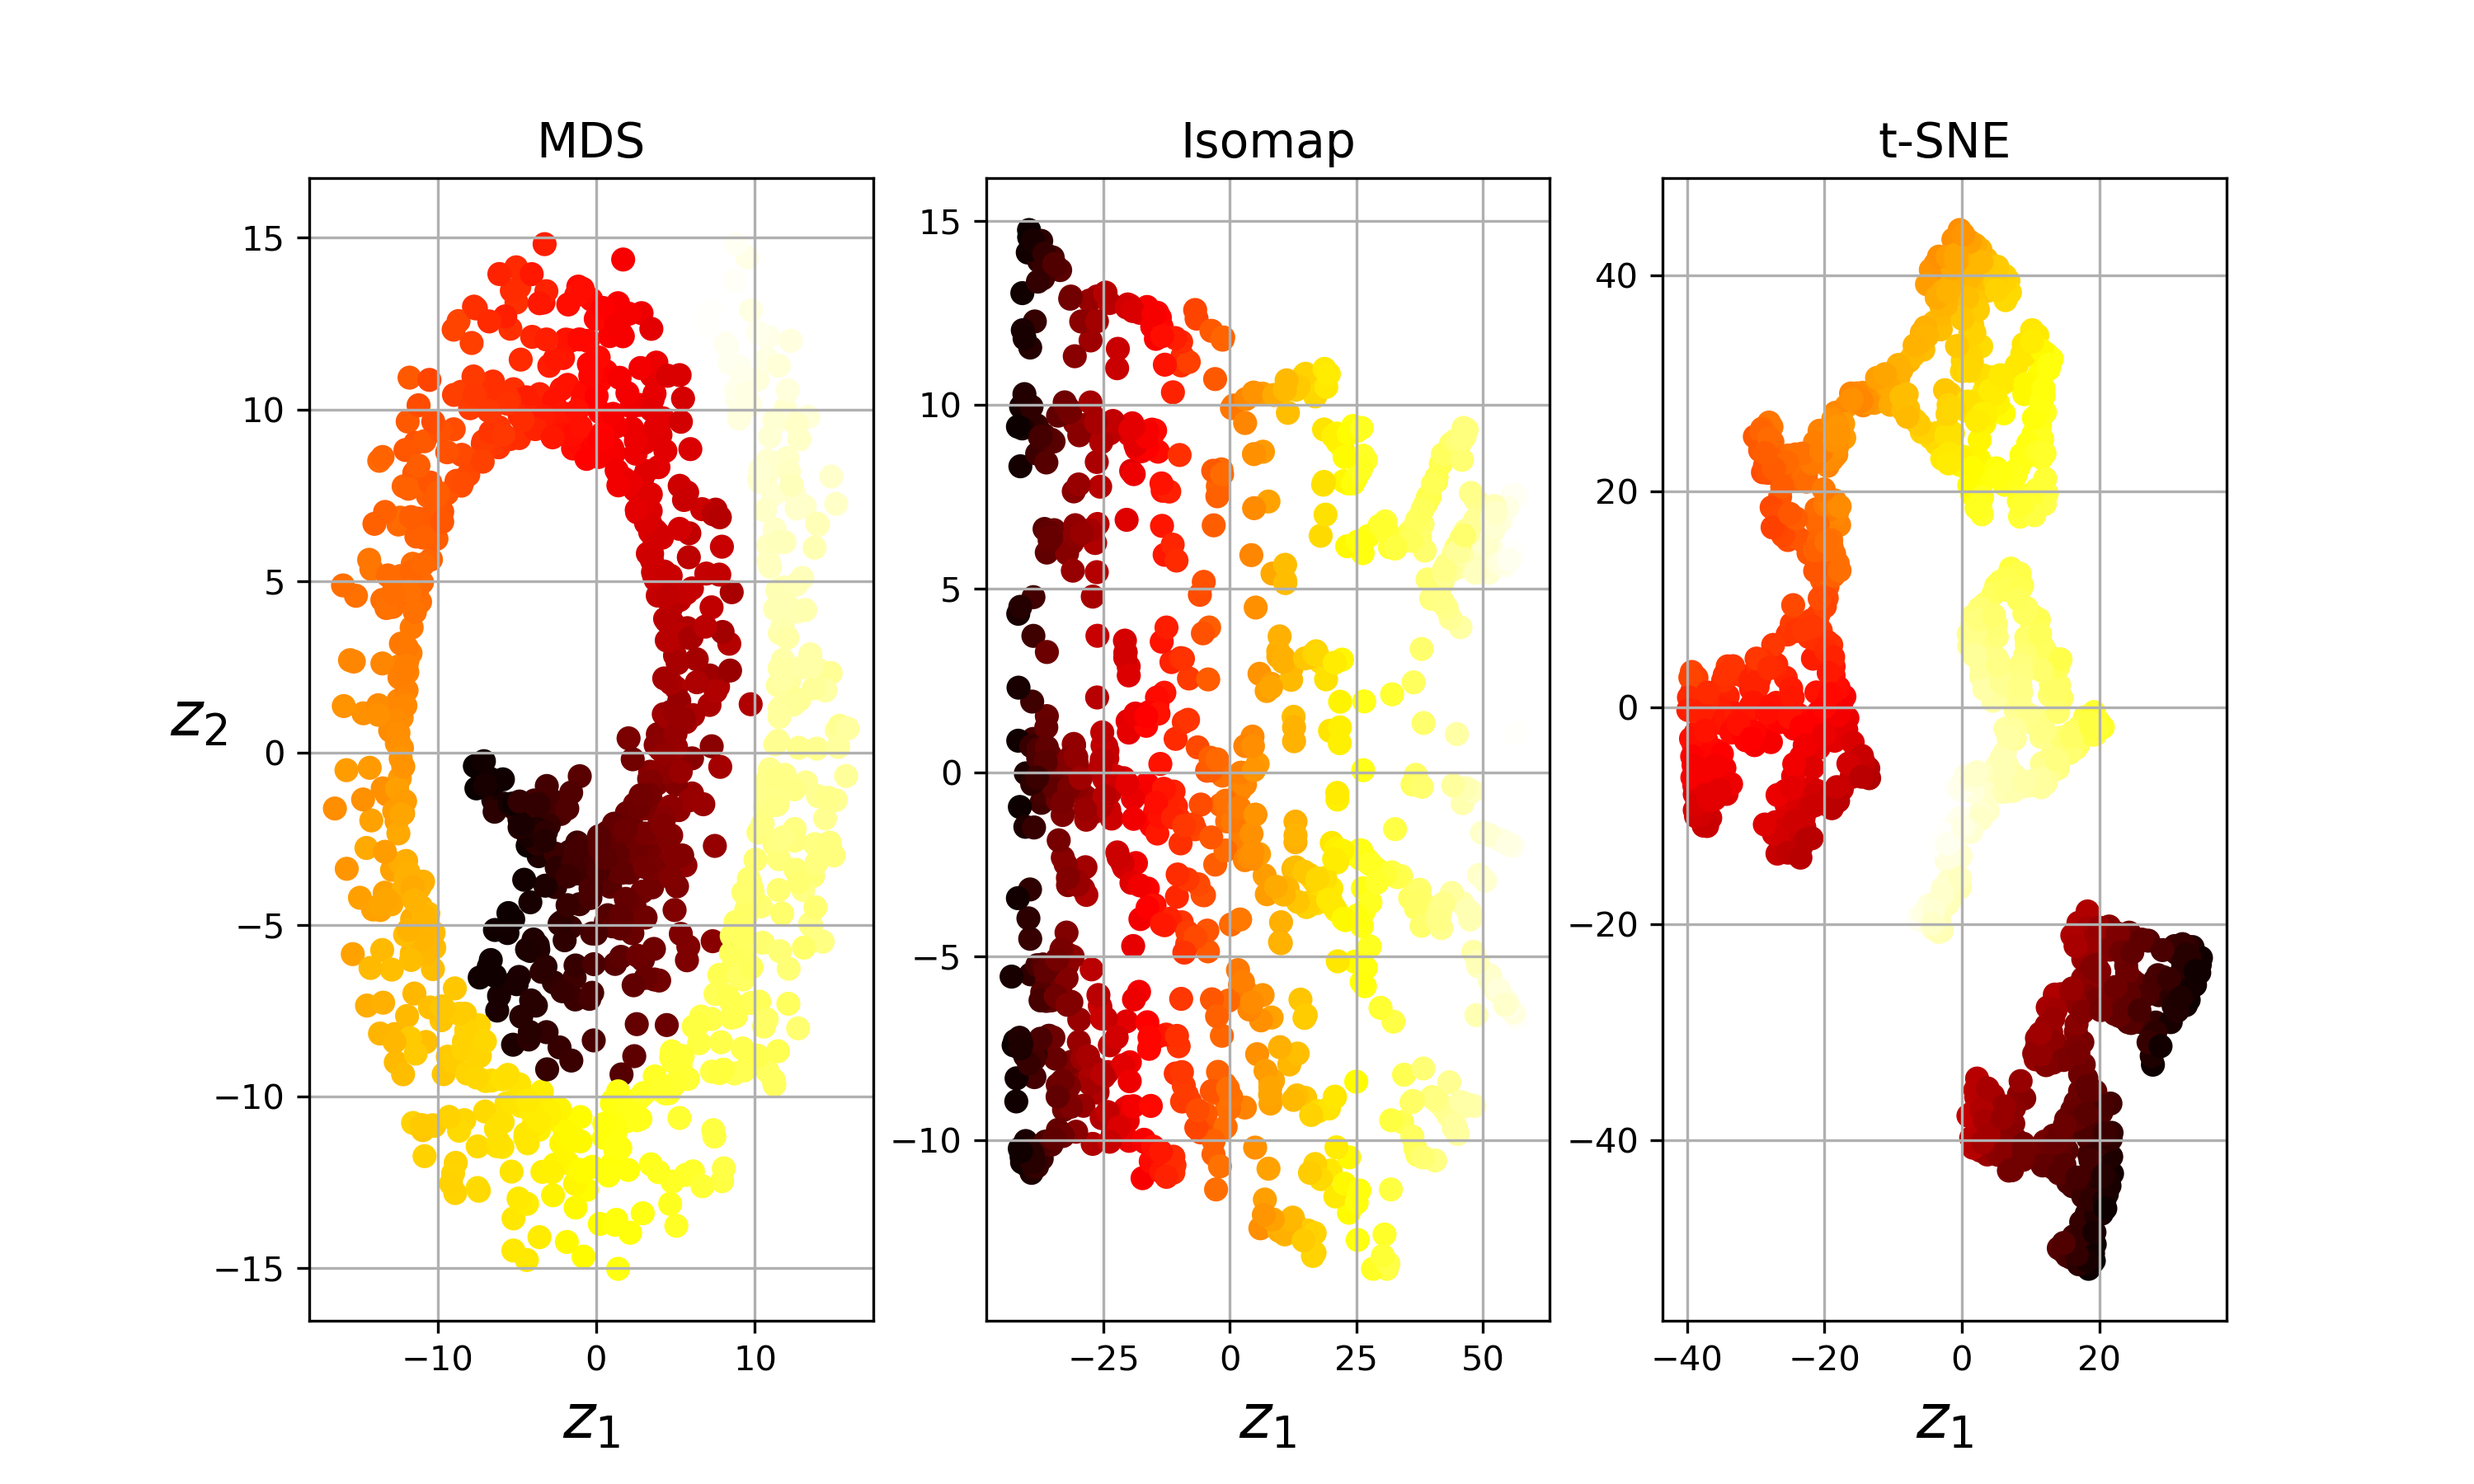
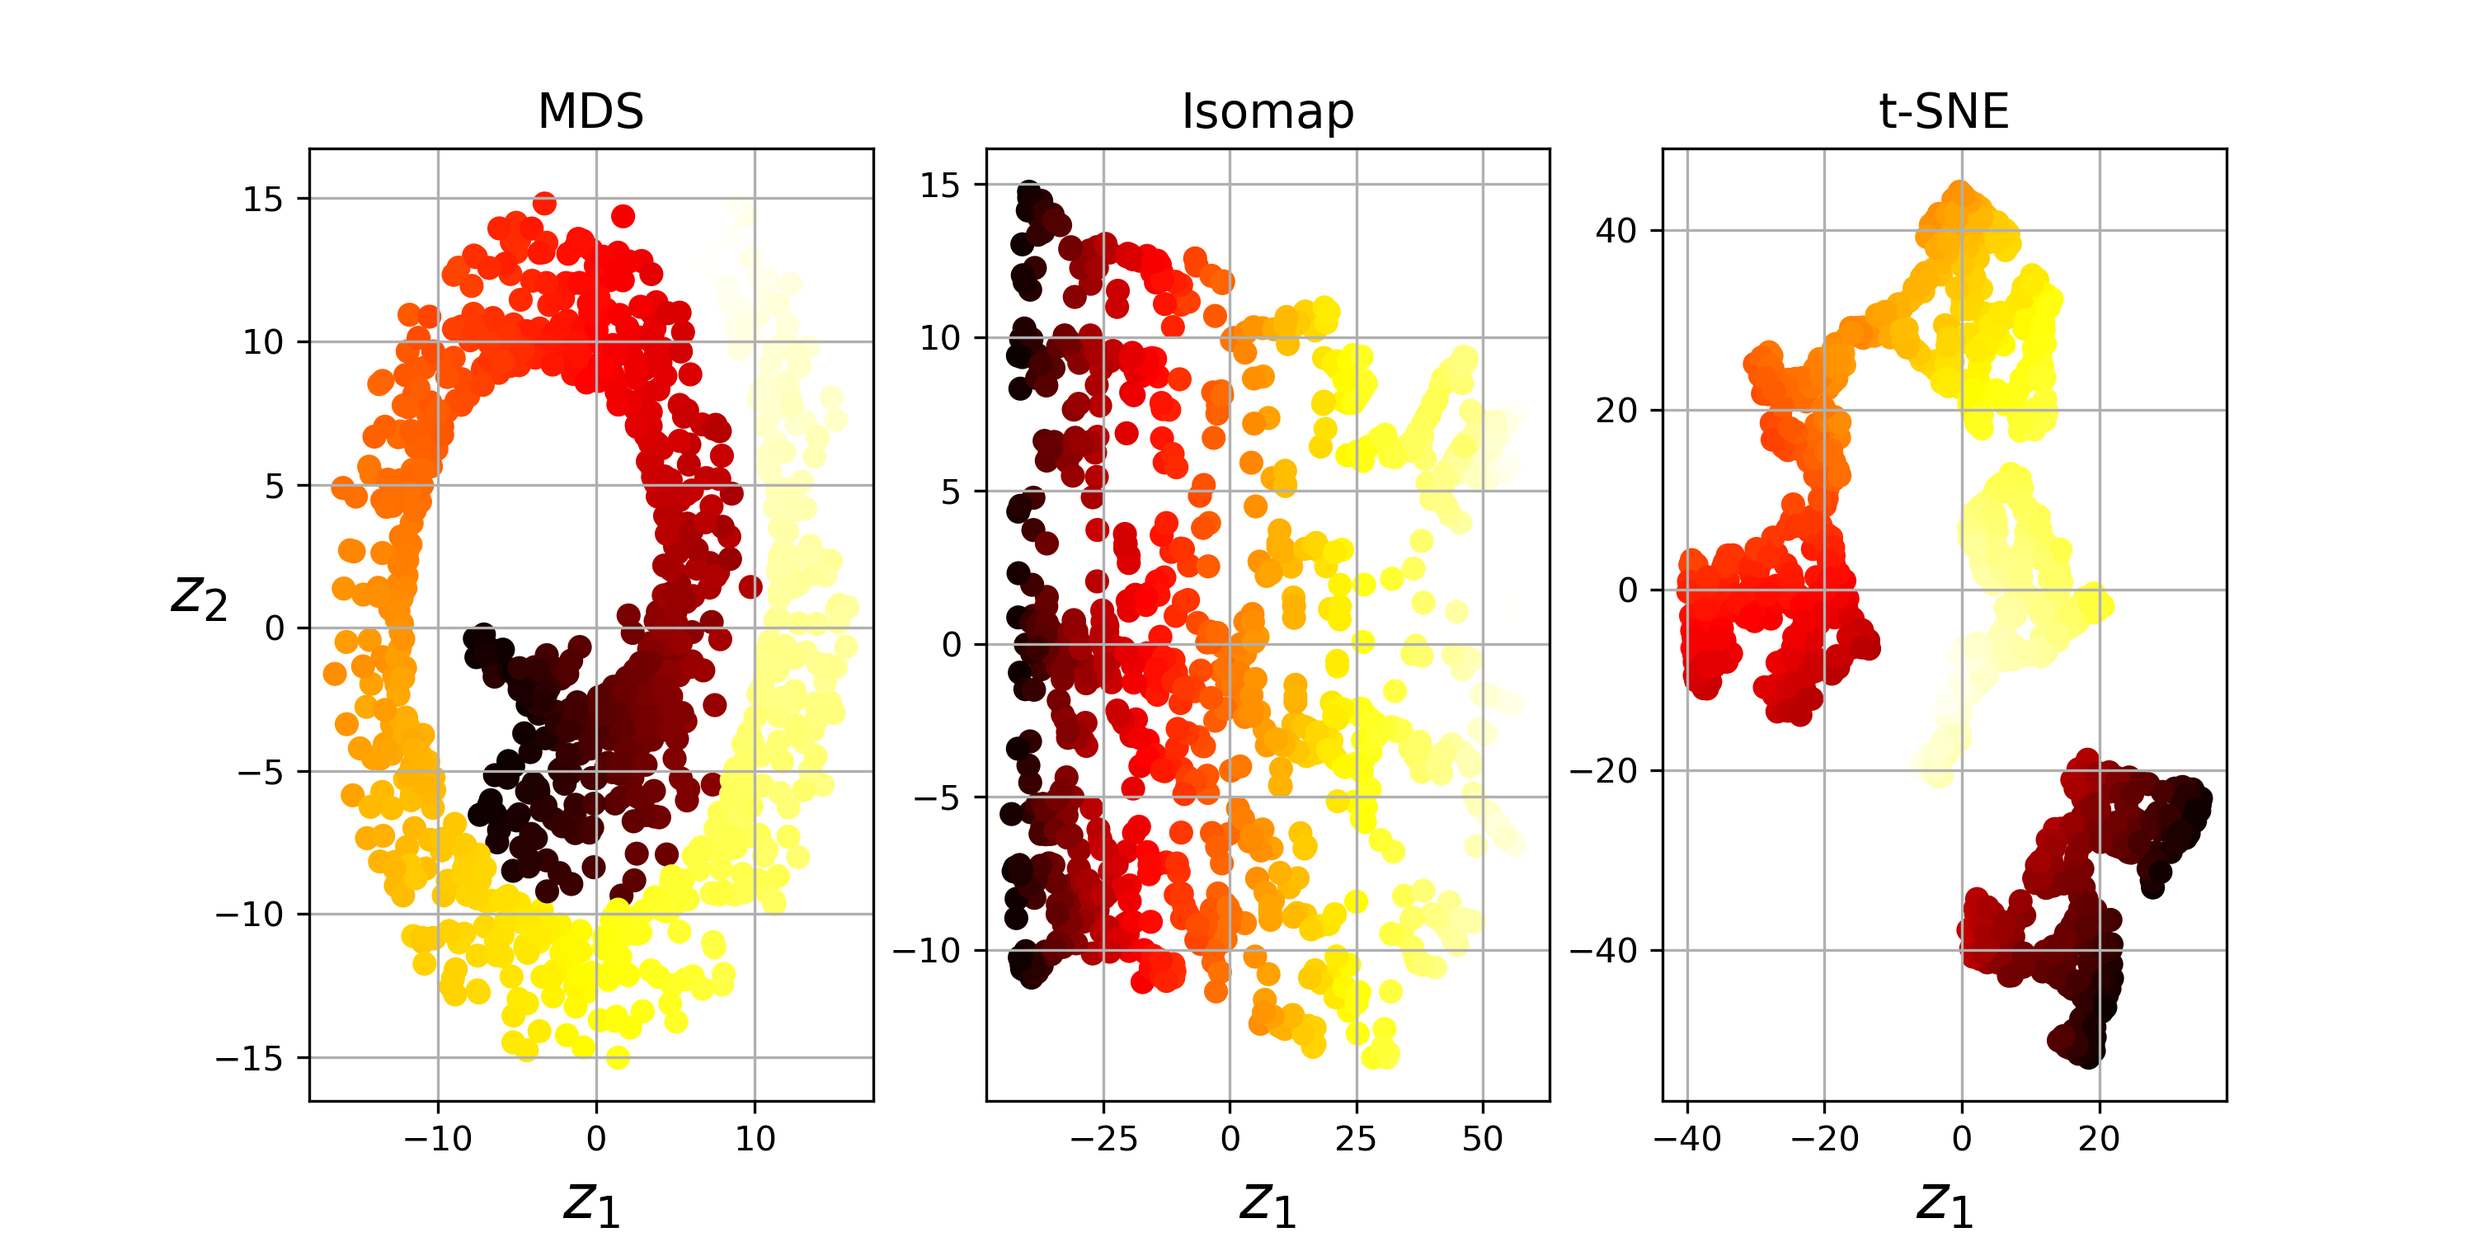
pca, mds, isomap, t-sne

diff --git a/src/08_pca.py b/src/08_pca.py
@@ -56,11 +56,11 @@ X2D = pca.fit_transform(X)
 ic(X2D[:5])
 ic(X2D_using_svd[:5])
 
-np.allclose(X2D, -X2D_using_svd)
+ic(np.allclose(X2D, -X2D_using_svd))
 X3D_inv = pca.inverse_transform(X2D)
-np.mean(np.sum(np.square(X3D_inv - X), axis=1))
+ic(np.mean(np.sum(np.square(X3D_inv - X), axis=1)))
 X3D_inv_using_svd = X2D_using_svd.dot(Vt[:2, :])
-np.allclose(X3D_inv_using_svd, X3D_inv - pca.mean_)
+ic(np.allclose(X3D_inv_using_svd, X3D_inv - pca.mean_))
 ic(pca.components_)
 ic(pca.explained_variance_ratio_)
 ic(1 - pca.explained_variance_ratio_.sum())
@@ -473,6 +473,7 @@ for n_samples in sizes:
     t2 = time.time()
     times_pca.append(t2 - t1)
 
+plt.figure(figsize=(10, 6))
 plt.plot(sizes, times_rpca, "b-o", label="RPCA")
 plt.plot(sizes, times_pca, "r-s", label="PCA")
 plt.xlabel("n_samples")
@@ -497,6 +498,7 @@ for n_features in sizes:
     t2 = time.time()
     times_pca.append(t2 - t1)
 
+plt.figure(figsize=(10, 6))
 plt.plot(sizes, times_rpca, "b-o", label="RPCA")
 plt.plot(sizes, times_pca, "r-s", label="PCA")
 plt.xlabel("n_features")
@@ -606,7 +608,7 @@ tsne = TSNE(n_components=2, random_state=42)
 X_reduced_tsne = tsne.fit_transform(X)
 
 titles = ["MDS", "Isomap", "t-SNE"]
-plt.figure(figsize=(10, 6))
+plt.figure(figsize=(10, 5))
 for subplot, title, X_reduced in zip(
     (131, 132, 133), titles, (X_reduced_mds, X_reduced_isomap, X_reduced_tsne)
 ):
